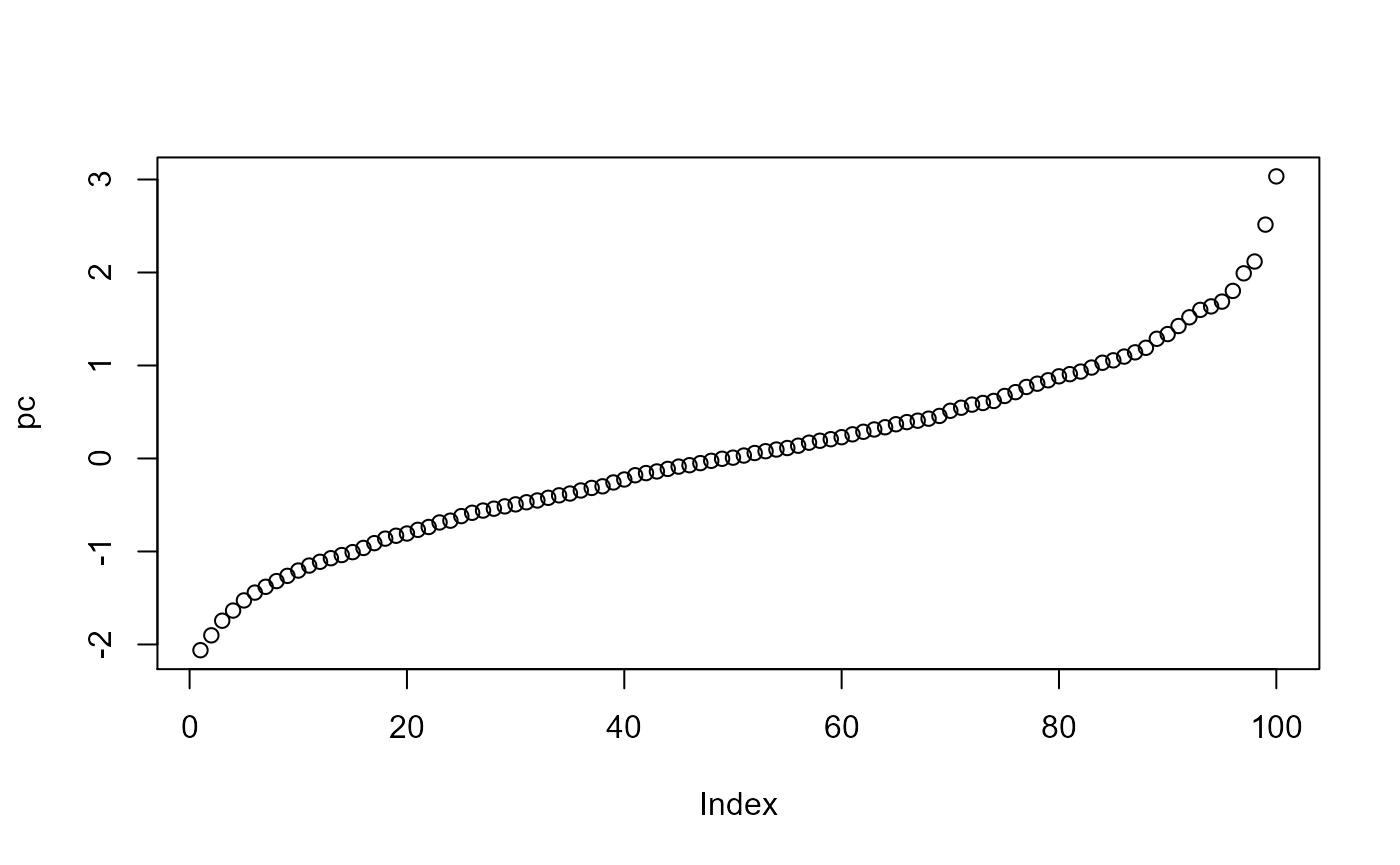
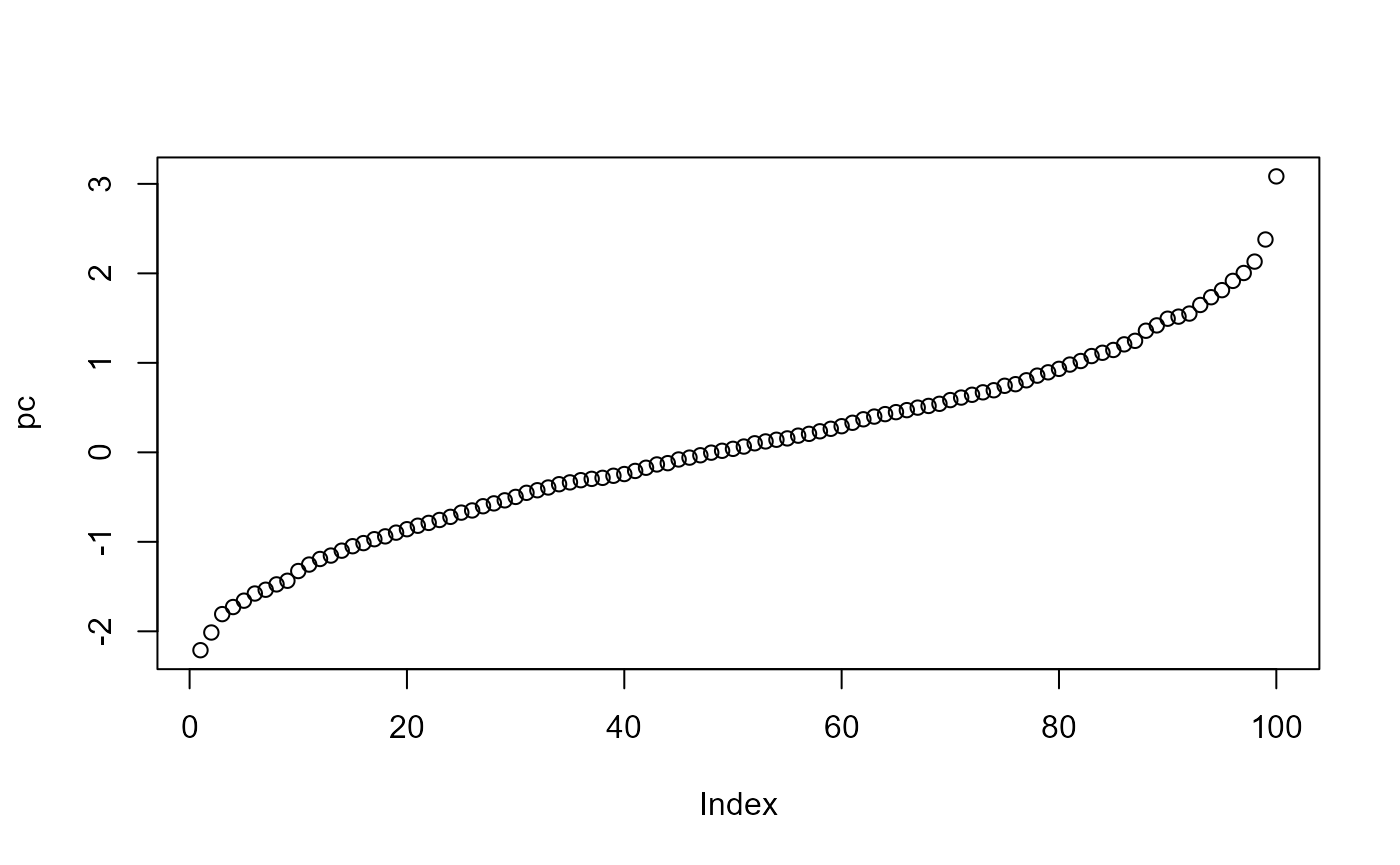
Last commit was too early

diff --git a/docs/news/index.html b/docs/news/index.html
@@ -1,0 +1,182 @@
+<!-- Generated by pkgdown: do not edit by hand -->
+<!DOCTYPE html>
+<html lang="en">
+  <head>
+  <meta charset="utf-8">
+<meta http-equiv="X-UA-Compatible" content="IE=edge">
+<meta name="viewport" content="width=device-width, initial-scale=1.0">
+
+<title>Changelog • vtable</title>
+
+
+<!-- jquery -->
+<script src="https://cdnjs.cloudflare.com/ajax/libs/jquery/3.4.1/jquery.min.js" integrity="sha256-CSXorXvZcTkaix6Yvo6HppcZGetbYMGWSFlBw8HfCJo=" crossorigin="anonymous"></script>
+<!-- Bootstrap -->
+
+<link rel="stylesheet" href="https://cdnjs.cloudflare.com/ajax/libs/twitter-bootstrap/3.4.1/css/bootstrap.min.css" integrity="sha256-bZLfwXAP04zRMK2BjiO8iu9pf4FbLqX6zitd+tIvLhE=" crossorigin="anonymous" />
+
+<script src="https://cdnjs.cloudflare.com/ajax/libs/twitter-bootstrap/3.4.1/js/bootstrap.min.js" integrity="sha256-nuL8/2cJ5NDSSwnKD8VqreErSWHtnEP9E7AySL+1ev4=" crossorigin="anonymous"></script>
+
+<!-- bootstrap-toc -->
+<link rel="stylesheet" href="../bootstrap-toc.css">
+<script src="../bootstrap-toc.js"></script>
+
+<!-- Font Awesome icons -->
+<link rel="stylesheet" href="https://cdnjs.cloudflare.com/ajax/libs/font-awesome/5.12.1/css/all.min.css" integrity="sha256-mmgLkCYLUQbXn0B1SRqzHar6dCnv9oZFPEC1g1cwlkk=" crossorigin="anonymous" />
+<link rel="stylesheet" href="https://cdnjs.cloudflare.com/ajax/libs/font-awesome/5.12.1/css/v4-shims.min.css" integrity="sha256-wZjR52fzng1pJHwx4aV2AO3yyTOXrcDW7jBpJtTwVxw=" crossorigin="anonymous" />
+
+<!-- clipboard.js -->
+<script src="https://cdnjs.cloudflare.com/ajax/libs/clipboard.js/2.0.6/clipboard.min.js" integrity="sha256-inc5kl9MA1hkeYUt+EC3BhlIgyp/2jDIyBLS6k3UxPI=" crossorigin="anonymous"></script>
+
+<!-- headroom.js -->
+<script src="https://cdnjs.cloudflare.com/ajax/libs/headroom/0.11.0/headroom.min.js" integrity="sha256-AsUX4SJE1+yuDu5+mAVzJbuYNPHj/WroHuZ8Ir/CkE0=" crossorigin="anonymous"></script>
+<script src="https://cdnjs.cloudflare.com/ajax/libs/headroom/0.11.0/jQuery.headroom.min.js" integrity="sha256-ZX/yNShbjqsohH1k95liqY9Gd8uOiE1S4vZc+9KQ1K4=" crossorigin="anonymous"></script>
+
+<!-- pkgdown -->
+<link href="../pkgdown.css" rel="stylesheet">
+<script src="../pkgdown.js"></script>
+
+
+
+
+<meta property="og:title" content="Changelog" />
+
+
+
+
+<!-- mathjax -->
+<script src="https://cdnjs.cloudflare.com/ajax/libs/mathjax/2.7.5/MathJax.js" integrity="sha256-nvJJv9wWKEm88qvoQl9ekL2J+k/RWIsaSScxxlsrv8k=" crossorigin="anonymous"></script>
+<script src="https://cdnjs.cloudflare.com/ajax/libs/mathjax/2.7.5/config/TeX-AMS-MML_HTMLorMML.js" integrity="sha256-84DKXVJXs0/F8OTMzX4UR909+jtl4G7SPypPavF+GfA=" crossorigin="anonymous"></script>
+
+<!--[if lt IE 9]>
+<script src="https://oss.maxcdn.com/html5shiv/3.7.3/html5shiv.min.js"></script>
+<script src="https://oss.maxcdn.com/respond/1.4.2/respond.min.js"></script>
+<![endif]-->
+
+
+
+  </head>
+
+  <body data-spy="scroll" data-target="#toc">
+    <div class="container template-news">
+      <header>
+      <div class="navbar navbar-default navbar-fixed-top" role="navigation">
+  <div class="container">
+    <div class="navbar-header">
+      <button type="button" class="navbar-toggle collapsed" data-toggle="collapse" data-target="#navbar" aria-expanded="false">
+        <span class="sr-only">Toggle navigation</span>
+        <span class="icon-bar"></span>
+        <span class="icon-bar"></span>
+        <span class="icon-bar"></span>
+      </button>
+      <span class="navbar-brand">
+        <a class="navbar-link" href="../index.html">vtable</a>
+        <span class="version label label-default" data-toggle="tooltip" data-placement="bottom" title="Released version">1.3.2</span>
+      </span>
+    </div>
+
+    <div id="navbar" class="navbar-collapse collapse">
+      <ul class="nav navbar-nav">
+        <li>
+  <a href="../index.html">
+    <span class="fas fa-home fa-lg"></span>
+     
+  </a>
+</li>
+<li>
+  <a href="../articles/vtable.html">Get started</a>
+</li>
+<li>
+  <a href="../reference/index.html">Reference</a>
+</li>
+<li class="dropdown">
+  <a href="#" class="dropdown-toggle" data-toggle="dropdown" role="button" aria-expanded="false">
+    Articles
+     
+    <span class="caret"></span>
+  </a>
+  <ul class="dropdown-menu" role="menu">
+    <li>
+      <a href="../articles/dftotable.html">dftoHTML and dftoLaTeX: Data Frame Formatting</a>
+    </li>
+    <li>
+      <a href="../articles/labeltable.html">labeltable: Label Table</a>
+    </li>
+    <li>
+      <a href="../articles/sumtable.html">sumtable: Summary Statistics</a>
+    </li>
+    <li>
+      <a href="../articles/vtablefunction.html">Variable Table (vtable)</a>
+    </li>
+    <li>
+      <a href="../articles/vtablehelpers.html">vtable Bonus Functions</a>
+    </li>
+  </ul>
+</li>
+<li>
+  <a href="../news/index.html">Changelog</a>
+</li>
+      </ul>
+      <ul class="nav navbar-nav navbar-right">
+        <li>
+  <a href="https://github.com/NickCH-K/vtable/">
+    <span class="fab fa-github fa-lg"></span>
+     
+  </a>
+</li>
+      </ul>
+      
+    </div><!--/.nav-collapse -->
+  </div><!--/.container -->
+</div><!--/.navbar -->
+
+      
+
+      </header>
+
+<div class="row">
+  <div class="col-md-9 contents">
+    <div class="page-header">
+      <h1 data-toc-skip>Changelog <small></small></h1>
+      <small>Source: <a href='https://github.com/NickCH-K/vtable/blob/master/NEWS.md'><code>NEWS.md</code></a></small>
+    </div>
+
+    <div id="vtable-132" class="section level1">
+<h1 class="page-header" data-toc-text="1.3.2">
+<a href="#vtable-132" class="anchor"></a>vtable 1.3.2<small> Unreleased </small>
+</h1>
+<ul>
+<li>Fixes an issue where <code><a href="https://rdrr.io/r/base/format.html">format(digits = 0)</a></code> was still being used despite no longer being allowed</li>
+<li>Fixes the use of sample weights combined with factor variables that have missing values.</li>
+</ul>
+</div>
+  </div>
+
+  <div class="col-md-3 hidden-xs hidden-sm" id="pkgdown-sidebar">
+    <nav id="toc" data-toggle="toc" class="sticky-top">
+      <h2 data-toc-skip>Contents</h2>
+    </nav>
+  </div>
+
+</div>
+
+
+      <footer>
+      <div class="copyright">
+  <p>Developed by Nick Huntington-Klein.</p>
+</div>
+
+<div class="pkgdown">
+  <p>Site built with <a href="https://pkgdown.r-lib.org/">pkgdown</a> 1.6.1.</p>
+</div>
+
+      </footer>
+   </div>
+
+  
+
+
+  </body>
+</html>
+
+

diff --git a/docs/articles/vtablehelpers.html b/docs/articles/vtablehelpers.html
@@ -31,7 +31,7 @@
       </button>
       <span class="navbar-brand">
         <a class="navbar-link" href="../index.html">vtable</a>
-        <span class="version label label-default" data-toggle="tooltip" data-placement="bottom" title="Released version">1.3.1</span>
+        <span class="version label label-default" data-toggle="tooltip" data-placement="bottom" title="Released version">1.3.2</span>
       </span>
     </div>
 
@@ -73,8 +73,18 @@
     </li>
   </ul>
 </li>
+<li>
+  <a href="../news/index.html">Changelog</a>
+</li>
       </ul>
-<ul class="nav navbar-nav navbar-right"></ul>
+<ul class="nav navbar-nav navbar-right">
+<li>
+  <a href="https://github.com/NickCH-K/vtable/">
+    <span class="fab fa-github fa-lg"></span>
+     
+  </a>
+</li>
+      </ul>
 </div>
 <!--/.nav-collapse -->
   </div>
@@ -84,15 +94,15 @@
 
       
 
-      </header><script src="vtablehelpers_files/header-attrs-2.7/header-attrs.js"></script><div class="row">
+      </header><script src="vtablehelpers_files/header-attrs-2.8/header-attrs.js"></script><div class="row">
   <div class="col-md-9 contents">
     <div class="page-header toc-ignore">
       <h1 data-toc-skip>vtable Bonus Functions</h1>
                         <h4 class="author">Nick Huntington-Klein</h4>
             
-            <h4 class="date">2021-04-21</h4>
+            <h4 class="date">2021-05-27</h4>
       
-      
+      <small class="dont-index">Source: <a href="https://github.com/NickCH-K/vtable/blob/master/vignettes/vtablehelpers.Rmd"><code>vignettes/vtablehelpers.Rmd</code></a></small>
       <div class="hidden name"><code>vtablehelpers.Rmd</code></div>
 
     </div>
@@ -158,7 +168,7 @@
 <p><code><a href="../reference/pctile.html">pctile(x)</a></code> is short for <code><a href="https://rdrr.io/r/stats/quantile.html">quantile(x,1:100/100)</a></code>. So in one sense this is another shortcut function. But this inherently lets you interact with percentiles a bit differently.</p>
 <p>While <code><a href="https://rdrr.io/r/stats/quantile.html">quantile()</a></code> has you specify which percentile you want in the function call, <code><a href="../reference/pctile.html">pctile()</a></code> returns an object with all integer percentiles, and you can pull out which ones you want afterwards. <code>pctile(x)[50]</code> is the 50th percentile, etc.. This can be convenient in several applications, an obvious one being in <code>sumtable</code>.</p>
 <div class="sourceCode" id="cb1"><pre class="downlit sourceCode r">
-<code class="sourceCode R"><span class="kw"><a href="https://rdrr.io/r/base/library.html">library</a></span><span class="op">(</span><span class="va">vtable</span><span class="op">)</span></code></pre></div>
+<code class="sourceCode R"><span class="kw"><a href="https://rdrr.io/r/base/library.html">library</a></span><span class="op">(</span><span class="va"><a href="https://nickch-k.github.io/vtable/">vtable</a></span><span class="op">)</span></code></pre></div>
 <pre><code>## Loading required package: kableExtra</code></pre>
 <div class="sourceCode" id="cb3"><pre class="downlit sourceCode r">
 <code class="sourceCode R"><span class="co">#Some random normal data, and its percentiles</span>
@@ -167,8 +177,8 @@
 
 <span class="co">#25th, 50th, 75th percentile</span>
 <span class="va">pc</span><span class="op">[</span><span class="fu"><a href="https://rdrr.io/r/base/c.html">c</a></span><span class="op">(</span><span class="fl">25</span>,<span class="fl">50</span>,<span class="fl">75</span><span class="op">)</span><span class="op">]</span></code></pre></div>
-<pre><code>##          25%          50%          75% 
-## -0.619880923  0.008818388  0.672112252</code></pre>
+<pre><code>##         25%         50%         75% 
+## -0.67360737  0.03888638  0.74360307</code></pre>
 <div class="sourceCode" id="cb5"><pre class="downlit sourceCode r">
 <code class="sourceCode R"><span class="co">#Inverse normal CDF with 100 points of articulation</span>
 <span class="fu"><a href="https://rdrr.io/r/graphics/plot.default.html">plot</a></span><span class="op">(</span><span class="va">pc</span><span class="op">)</span></code></pre></div>
@@ -255,7 +265,7 @@
 <h2 class="hasAnchor">
 <a href="#format" class="anchor"></a><code>format</code>
 </h2>
-<p>This is the printing format that the output will produce, incorporating the name of the test statistic <code>{name}</code>, the test statistic <code>{stat}</code>, the significance markers <a href="https://r-spatial.github.io/stars/">stars</a>, and the p-value <code>{pval}</code>.</p>
+<p>This is the printing format that the output will produce, incorporating the name of the test statistic <code>{name}</code>, the test statistic <code>{stat}</code>, the significance markers <code>{stars}</code>, and the p-value <code>{pval}</code>.</p>
 <p>If your <code>independence.test</code> is heading out to another format besides being printed in the R console, you may want to add additional markup like <code>'{name}$={stat}^{stars}$'}</code> in LaTeX or <code>'{name}={stat}&lt;sup&gt;{stars}&lt;/sup&gt;'</code> in HTML. If you do this, be sure to think carefully about escaping or not escaping characters as appropriate when you print!</p>
 <div class="sourceCode" id="cb19"><pre class="downlit sourceCode r">
 <code class="sourceCode R"><span class="fu"><a href="../reference/independence.test.html">independence.test</a></span><span class="op">(</span><span class="va">iris</span><span class="op">$</span><span class="va">Species</span>,

diff --git a/docs/articles/vtablefunction.html b/docs/articles/vtablefunction.html
@@ -31,7 +31,7 @@
       </button>
       <span class="navbar-brand">
         <a class="navbar-link" href="../index.html">vtable</a>
-        <span class="version label label-default" data-toggle="tooltip" data-placement="bottom" title="Released version">1.3.1</span>
+        <span class="version label label-default" data-toggle="tooltip" data-placement="bottom" title="Released version">1.3.2</span>
       </span>
     </div>
 
@@ -73,8 +73,18 @@
     </li>
   </ul>
 </li>
+<li>
+  <a href="../news/index.html">Changelog</a>
+</li>
       </ul>
-<ul class="nav navbar-nav navbar-right"></ul>
+<ul class="nav navbar-nav navbar-right">
+<li>
+  <a href="https://github.com/NickCH-K/vtable/">
+    <span class="fab fa-github fa-lg"></span>
+     
+  </a>
+</li>
+      </ul>
 </div>
 <!--/.nav-collapse -->
   </div>
@@ -84,16 +94,16 @@
 
       
 
-      </header><script src="vtablefunction_files/header-attrs-2.7/header-attrs.js"></script><script src="vtablefunction_files/kePrint-0.0.1/kePrint.js"></script><link href="vtablefunction_files/lightable-0.0.1/lightable.css" rel="stylesheet">
+      </header><script src="vtablefunction_files/header-attrs-2.8/header-attrs.js"></script><script src="vtablefunction_files/kePrint-0.0.1/kePrint.js"></script><link href="vtablefunction_files/lightable-0.0.1/lightable.css" rel="stylesheet">
 <div class="row">
   <div class="col-md-9 contents">
     <div class="page-header toc-ignore">
       <h1 data-toc-skip>Variable Table (vtable)</h1>
                         <h4 class="author">Nick Huntington-Klein</h4>
             
-            <h4 class="date">2021-04-21</h4>
+            <h4 class="date">2021-05-27</h4>
       
-      
+      <small class="dont-index">Source: <a href="https://github.com/NickCH-K/vtable/blob/master/vignettes/vtablefunction.Rmd"><code>vignettes/vtablefunction.Rmd</code></a></small>
       <div class="hidden name"><code>vtablefunction.Rmd</code></div>
 
     </div>
@@ -142,7 +152,7 @@
 <p>The <code>data</code> argument can take any <code>data.frame</code>, <code>data.table</code>, <code>tibble</code>, or <code>matrix</code>, as long as it has a valid set of variable names stored in the <code><a href="https://rdrr.io/r/base/colnames.html">colnames()</a></code> attribute. The goal of <code><a href="../reference/vtable.html">vtable()</a></code> is to produce documentation of each of the variables in this data set and display that documentation, one variable per row on the output <code>vtable</code>.</p>
 <p>If <code>data</code> has embedded variable or value labels, as the data set <code>efc</code> does below, <code><a href="../reference/vtable.html">vtable()</a></code> will extract and use them automatically.</p>
 <div class="sourceCode" id="cb2"><pre class="downlit sourceCode r">
-<code class="sourceCode R"><span class="kw"><a href="https://rdrr.io/r/base/library.html">library</a></span><span class="op">(</span><span class="va">vtable</span><span class="op">)</span></code></pre></div>
+<code class="sourceCode R"><span class="kw"><a href="https://rdrr.io/r/base/library.html">library</a></span><span class="op">(</span><span class="va"><a href="https://nickch-k.github.io/vtable/">vtable</a></span><span class="op">)</span></code></pre></div>
 <pre><code>## Loading required package: kableExtra</code></pre>
 <div class="sourceCode" id="cb4"><pre class="downlit sourceCode r">
 <code class="sourceCode R"><span class="co">#Example 1, using base data LifeCycleSavings</span>
@@ -1765,7 +1775,7 @@ Care level
 <p><code>data.title</code> and <code>desc</code> will only show up in full-page <code>vtable</code>s. That is, you won’t get them with <code>out = 'return'</code>, <code>out = 'csv'</code>, or <code>out = 'latex'</code> (although <code>out = 'latexpage'</code> works). <code>note</code> and <code>anchor</code> will only show up in formats that support multi-column cells and anchoring, so they won’t work with <code>out = 'return'</code> or <code>out = 'csv'</code>.</p>
 <p><code>out = 'kable'</code> is a half-exception in that it will use <code>data.title</code> as the caption for the <code>kable</code>, and will use the <code>note</code> as a footnote, but won’t use <code>desc</code> or <code>anchor</code>.</p>
 <div class="sourceCode" id="cb17"><pre class="downlit sourceCode r">
-<code class="sourceCode R"><span class="kw"><a href="https://rdrr.io/r/base/library.html">library</a></span><span class="op">(</span><span class="va">vtable</span><span class="op">)</span>
+<code class="sourceCode R"><span class="kw"><a href="https://rdrr.io/r/base/library.html">library</a></span><span class="op">(</span><span class="va"><a href="https://nickch-k.github.io/vtable/">vtable</a></span><span class="op">)</span>
 
 <span class="fu"><a href="https://rdrr.io/r/utils/data.html">data</a></span><span class="op">(</span><span class="va">LifeCycleSavings</span><span class="op">)</span>
 <span class="fu"><a href="../reference/vtable.html">vtable</a></span><span class="op">(</span><span class="va">LifeCycleSavings</span><span class="op">)</span>

diff --git a/docs/articles/vtablefunction_files/header-attrs-2.8/header-attrs.js b/docs/articles/vtablefunction_files/header-attrs-2.8/header-attrs.js
@@ -1,0 +1,12 @@
+// Pandoc 2.9 adds attributes on both header and div. We remove the former (to
+// be compatible with the behavior of Pandoc < 2.8).
+document.addEventListener('DOMContentLoaded', function(e) {
+  var hs = document.querySelectorAll("div.section[class*='level'] > :first-child");
+  var i, h, a;
+  for (i = 0; i < hs.length; i++) {
+    h = hs[i];
+    if (!/^h[1-6]$/i.test(h.tagName)) continue;  // it should be a header h1-h6
+    a = h.attributes;
+    while (a.length > 0) h.removeAttribute(a[0].name);
+  }
+});

diff --git a/docs/articles/vtablehelpers_files/header-attrs-2.8/header-attrs.js b/docs/articles/vtablehelpers_files/header-attrs-2.8/header-attrs.js
@@ -1,0 +1,12 @@
+// Pandoc 2.9 adds attributes on both header and div. We remove the former (to
+// be compatible with the behavior of Pandoc < 2.8).
+document.addEventListener('DOMContentLoaded', function(e) {
+  var hs = document.querySelectorAll("div.section[class*='level'] > :first-child");
+  var i, h, a;
+  for (i = 0; i < hs.length; i++) {
+    h = hs[i];
+    if (!/^h[1-6]$/i.test(h.tagName)) continue;  // it should be a header h1-h6
+    a = h.attributes;
+    while (a.length > 0) h.removeAttribute(a[0].name);
+  }
+});
